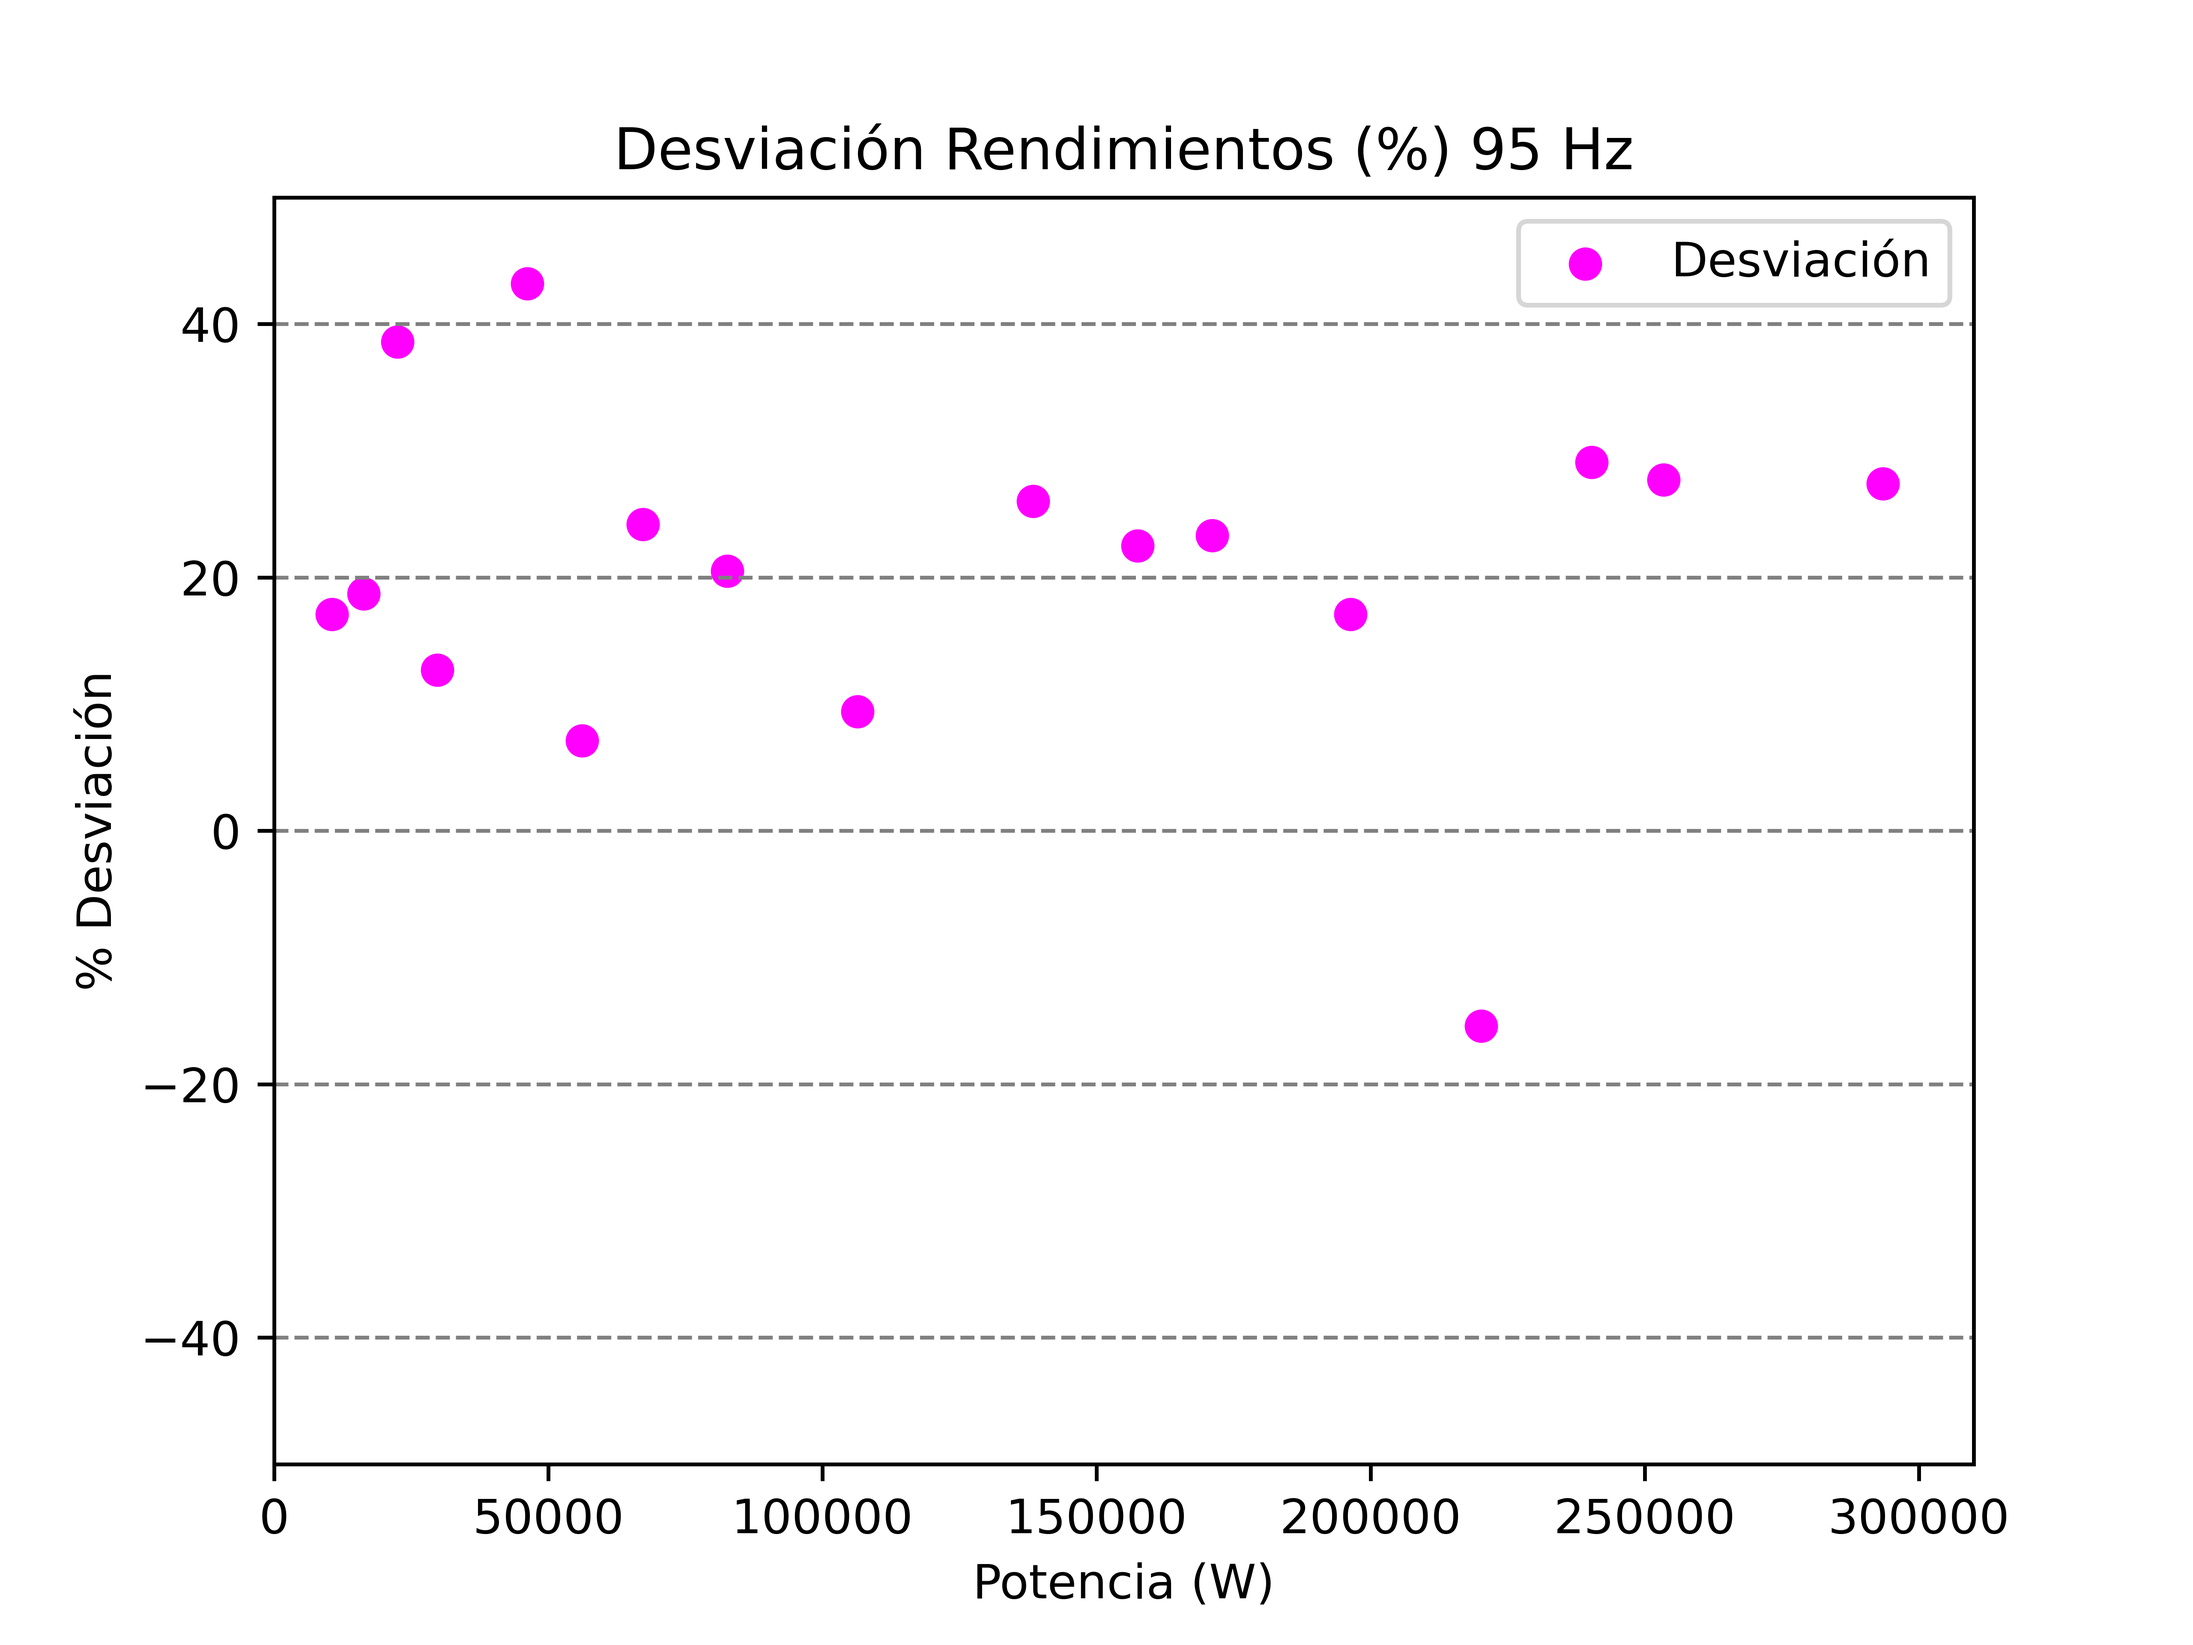
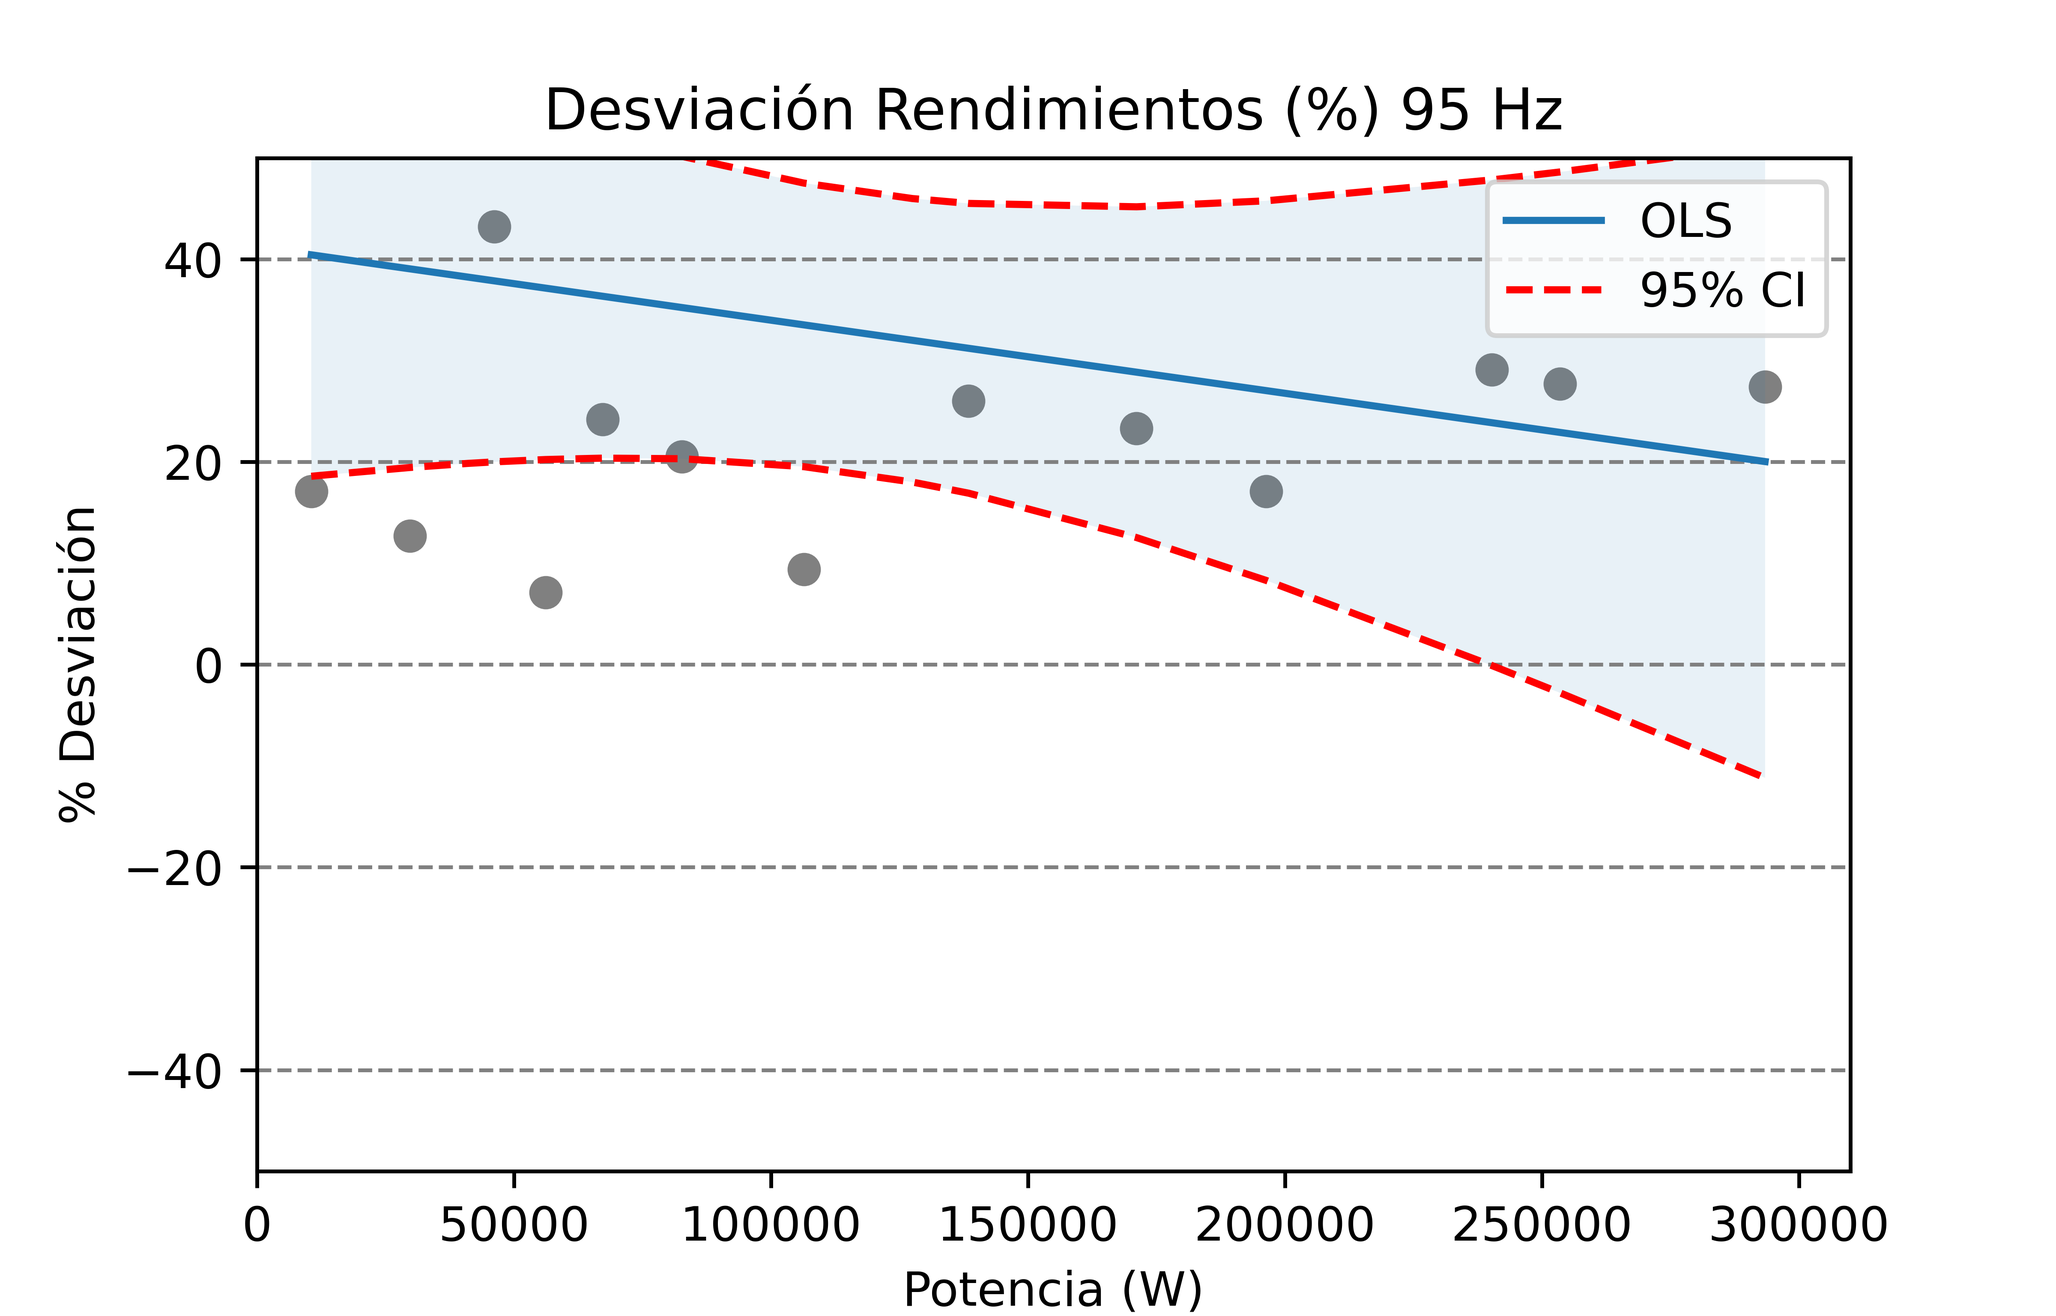
regresión lineal

diff --git a/graficar.py b/graficar.py
@@ -1,8 +1,36 @@
+import pandas as pd
+import numpy as np
+
 import matplotlib.pyplot as plt
+from matplotlib import style
+import seaborn as sns
+
+## Procesado y modelado
+from scipy.stats import pearsonr
+from sklearn.linear_model import LinearRegression
+from sklearn.model_selection import train_test_split
+from sklearn.metrics import r2_score
+from sklearn.metrics import mean_squared_error
+from statsmodels.api import add_constant
+from statsmodels.api import OLS
+import statsmodels.formula.api as sm
+
 
 class grafica:
-
-    def __init__(self, var_x = 'Variable x', var_y = 'Variable y', title = '', label_x = '', label_y = '', x_limit = (), y_limit =(), finish = 'False', save = False, label = '', color = ''):
+    def __init__(
+        self,
+        var_x="Variable x",
+        var_y="Variable y",
+        title="",
+        label_x="",
+        label_y="",
+        x_limit=(),
+        y_limit=(),
+        finish="False",
+        save=False,
+        label="",
+        color="",
+    ):
         self.var_x = var_x
         self.var_y = var_y
         self.title = title
@@ -16,19 +44,124 @@ class grafica:
         self.color = color
 
     def scatter(self):
-        
-        plt.scatter(self.var_x, self.var_y, label = self.label, color = self.color)
+
+        plt.scatter(self.var_x, self.var_y, label=self.label, color=self.color)
         self.__conditions__()
         self.__finish__()
 
     def line(self):
-        plt.plot(self.var_x, self.var_y, label = self.label, color = self.color)
+        plt.plot(self.var_x, self.var_y, label=self.label, color=self.color)
         self.__conditions__()
         self.__finish__()
 
     def fill_line(self):
-        plt.plot(self.var_x, self.var_y, color = "black")
-        plt.fill_between(self.var_x, self.var_y, label = self.label, color = self.color)
+        plt.plot(self.var_x, self.var_y, color="black")
+        plt.fill_between(self.var_x, self.var_y, label=self.label, color=self.color)
+        self.__conditions__()
+        self.__finish__()
+
+    def linear_regression(self):
+
+        datos = pd.DataFrame({"Potencia": self.var_x, "Error (%)": self.var_y})
+        datos.head(3)
+
+        # División de los datos en train y test
+        # ==============================================================================
+        X = datos[["Potencia"]]
+        y = datos["Error (%)"]
+
+        X_train, X_test, y_train, y_test = train_test_split(
+            X.values.reshape(-1, 1),
+            y.values.reshape(-1, 1),
+            train_size=0.8,
+            random_state=1234,
+            shuffle=True,
+        )
+
+        # Creación del modelo
+        # ==============================================================================
+        modelo = LinearRegression()
+        modelo.fit(X=X_train.reshape(-1, 1), y=y_train)
+
+        # Información del modelo
+        # ==============================================================================
+        print("Intercept:", modelo.intercept_)
+        print(
+            "Coeficiente:",
+            list(
+                zip(
+                    X.columns,
+                    modelo.coef_.flatten(),
+                )
+            ),
+        )
+        print("Coeficiente de determinación R^2:", modelo.score(X, y))
+
+        # Error de test del modelo
+        # ==============================================================================
+        predicciones = modelo.predict(X=X_test)
+        print(
+            predicciones[
+                0:3,
+            ]
+        )
+
+        rmse = mean_squared_error(y_true=y_test, y_pred=predicciones, squared=False)
+        print("")
+        print(f"El error (rmse) de test es: {rmse}")
+
+        # Creación del modelo utilizando matrices como en scikitlearn
+        # ==============================================================================
+        # A la matriz de predictores se le tiene que añadir una columna de 1s para el intercept del modelo
+        X_train = add_constant(X_train, prepend=True)
+        modelo = OLS(
+            endog=y_train,
+            exog=X_train,
+        )
+        modelo = modelo.fit()
+        print(modelo.summary())
+
+        # Intervalos de confianza para los coeficientes del modelo
+        # ==============================================================================
+        modelo.conf_int(alpha=0.05)
+
+        # Predicciones con intervalo de confianza del 95%
+        # ==============================================================================
+        predicciones = modelo.get_prediction(exog=X_train).summary_frame(alpha=0.05)
+        predicciones.head(4)
+
+        # Predicciones con intervalo de confianza del 95%
+        # ==============================================================================
+        predicciones = modelo.get_prediction(exog=X_train).summary_frame(alpha=0.05)
+        predicciones["x"] = X_train[:, 1]
+        predicciones["y"] = y_train
+        predicciones = predicciones.sort_values("x")
+
+        # Gráfico del modelo
+        # ==============================================================================
+        fig, ax = plt.subplots(figsize=(6, 3.84))
+
+        ax.scatter(predicciones["x"], predicciones["y"], marker="o", color="gray")
+        ax.plot(predicciones["x"], predicciones["mean"], linestyle="-", label="OLS")
+        ax.plot(
+            predicciones["x"],
+            predicciones["mean_ci_lower"],
+            linestyle="--",
+            color="red",
+            label="95% CI",
+        )
+        ax.plot(
+            predicciones["x"],
+            predicciones["mean_ci_upper"],
+            linestyle="--",
+            color="red",
+        )
+        ax.fill_between(
+            predicciones["x"],
+            predicciones["mean_ci_lower"],
+            predicciones["mean_ci_upper"],
+            alpha=0.1,
+        )
         self.__conditions__()
         self.__finish__()
 
@@ -37,12 +170,12 @@ class grafica:
         plt.xlabel(self.label_x)
         plt.title(self.title)
         plt.legend()
-        plt.grid(axis = 'y', color = 'gray', linestyle = 'dashed')
+        plt.grid(axis="y", color="gray", linestyle="dashed")
         plt.xlim(self.x_limit)
         plt.ylim(self.y_limit)
 
     def __save__(self):
-        plt.savefig(self.title+".png", dpi = 800)
+        plt.savefig(self.title + ".png", dpi=800)
         plt.close()
 
     def __finish__(self):
@@ -50,6 +183,3 @@ class grafica:
             self.__save__()
         if self.finish == True:
             plt.show()
-
-
-
